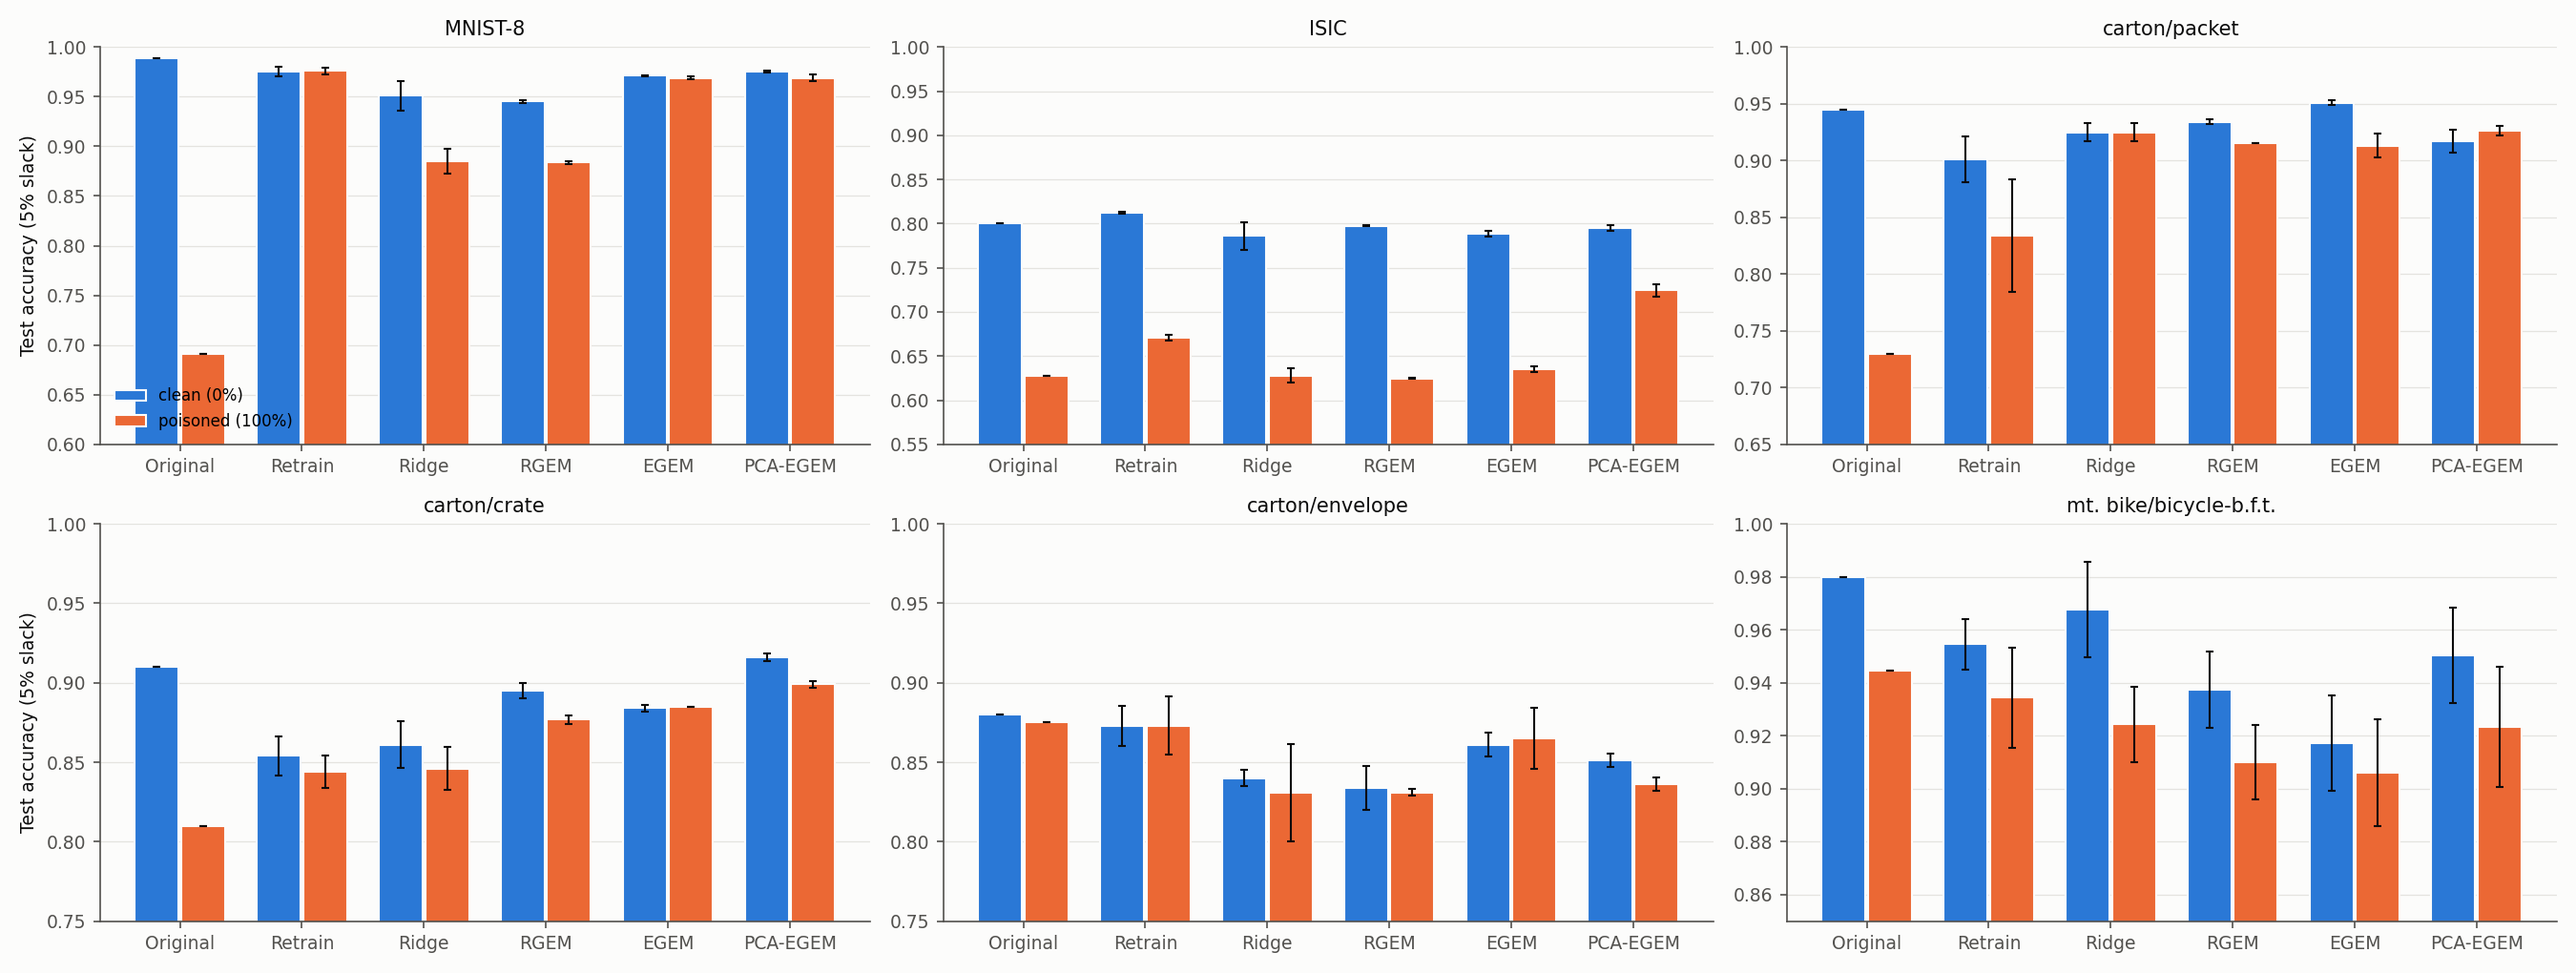
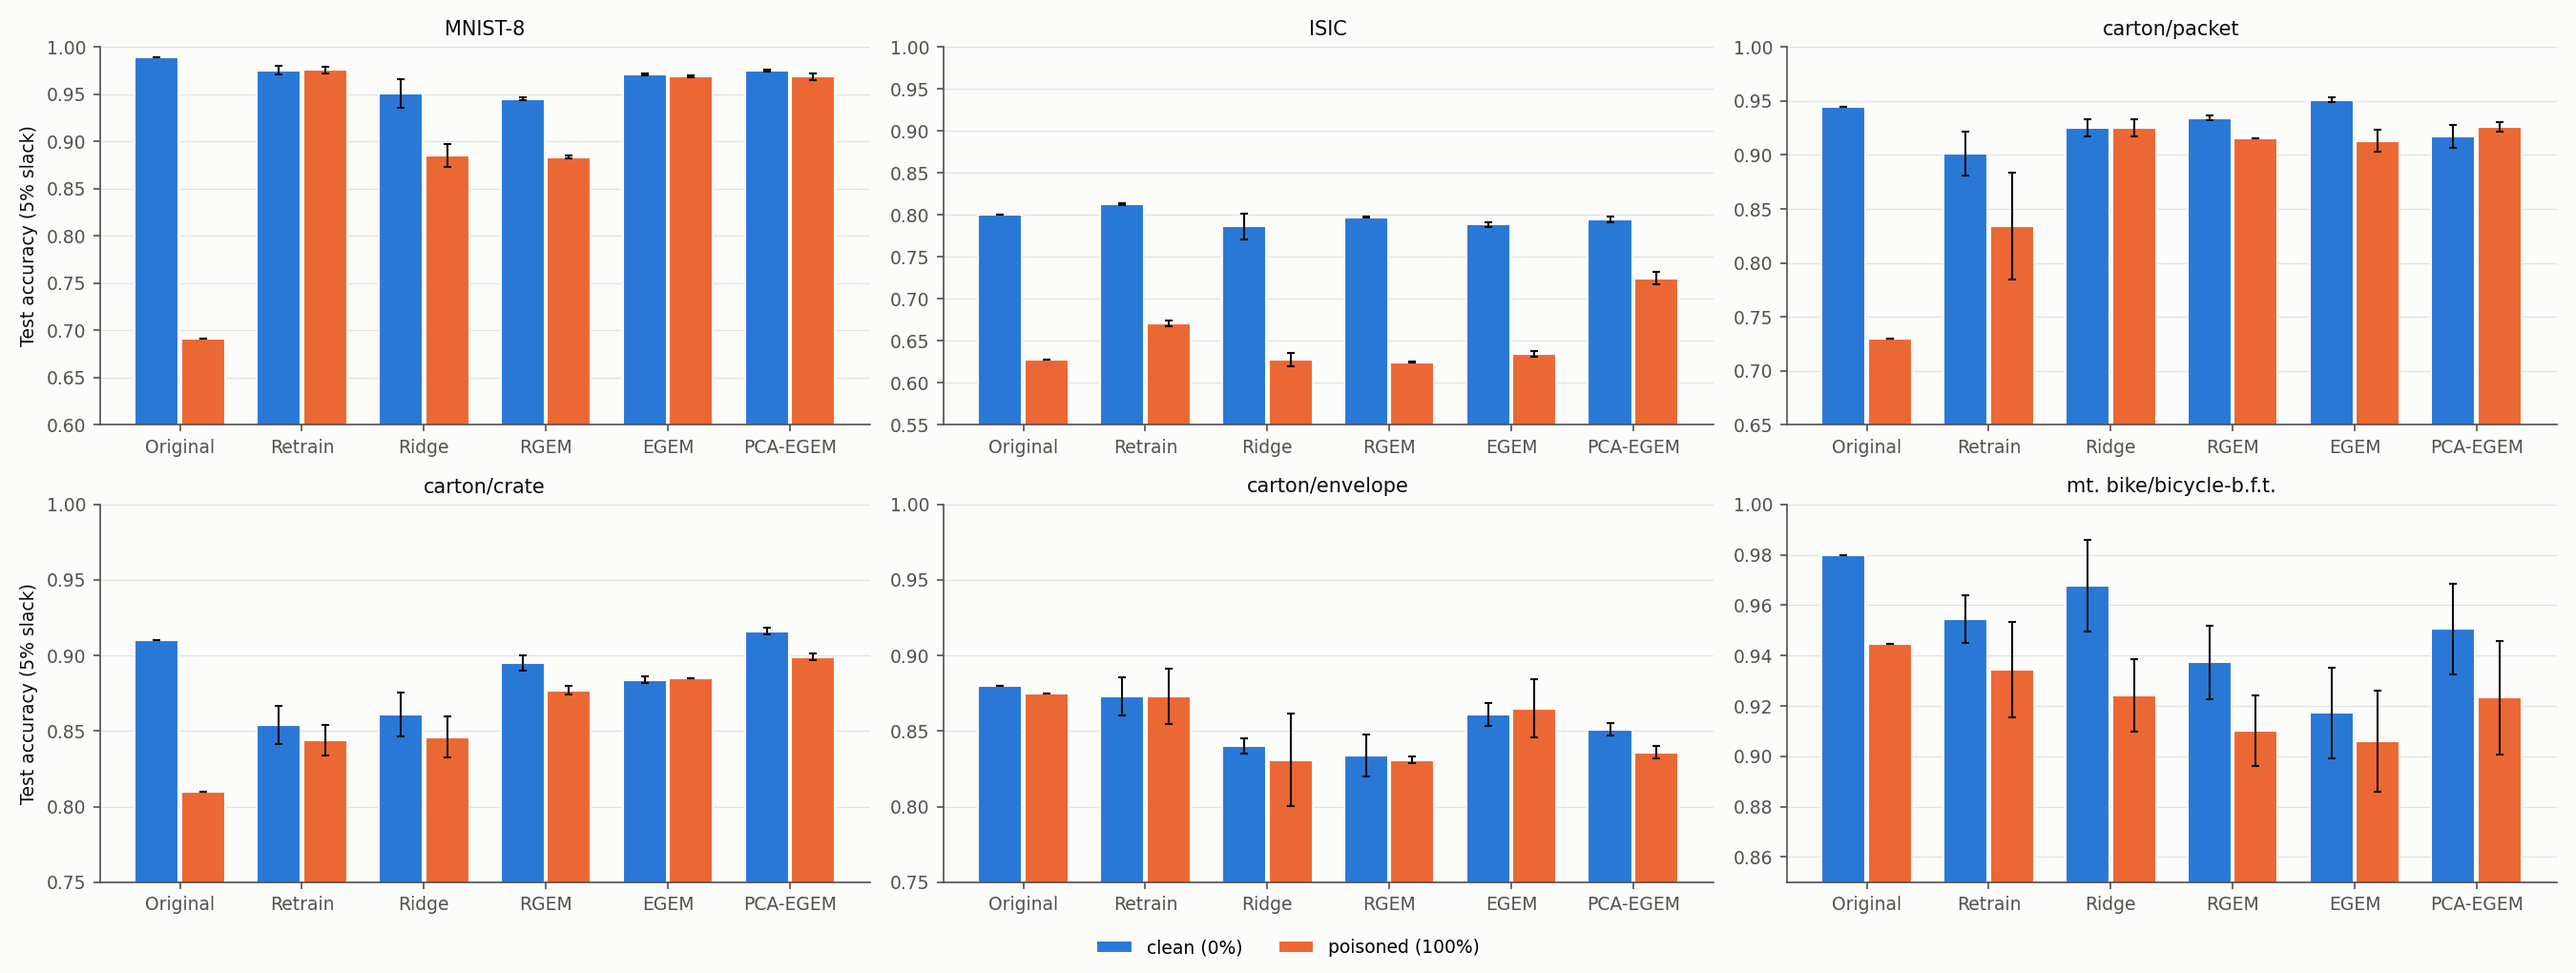
accuracy_main: legend below the panels

diff --git a/repro/make_figures.py b/repro/make_figures.py
@@ -57,8 +57,9 @@ for ax in axs.ravel()[len(SCENS):]:
     ax.axis("off")
 for r in range(rows_):
     axs[r, 0].set_ylabel("Test accuracy (5% slack)")
-axs[0, 0].legend(frameon=False, loc="lower left", fontsize=8)
-fig.tight_layout(); fig.savefig(f"{OUT}/accuracy_main.png", dpi=150)
+h_, l_ = axs[0, 0].get_legend_handles_labels()
+fig.legend(h_, l_, frameon=False, loc="lower center", ncol=2, fontsize=9)
+fig.tight_layout(rect=(0, 0.04, 1, 1)); fig.savefig(f"{OUT}/accuracy_main.png", dpi=150)
 
 # accuracy per method, MNIST variants
 fig, axs = plt.subplots(2, 2, figsize=(11, 6.4), sharey=True)
